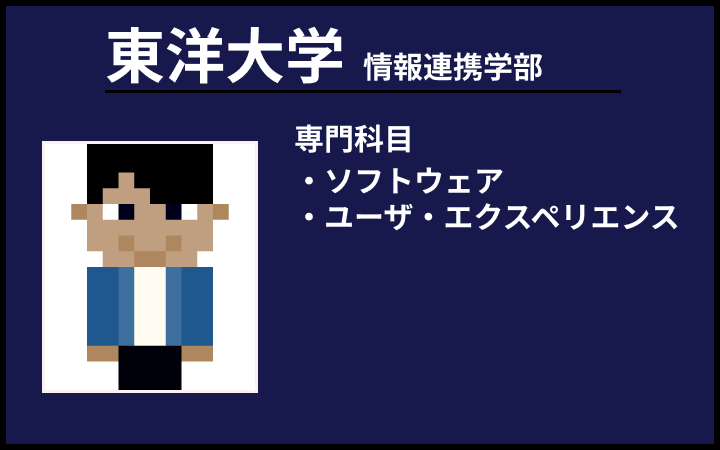
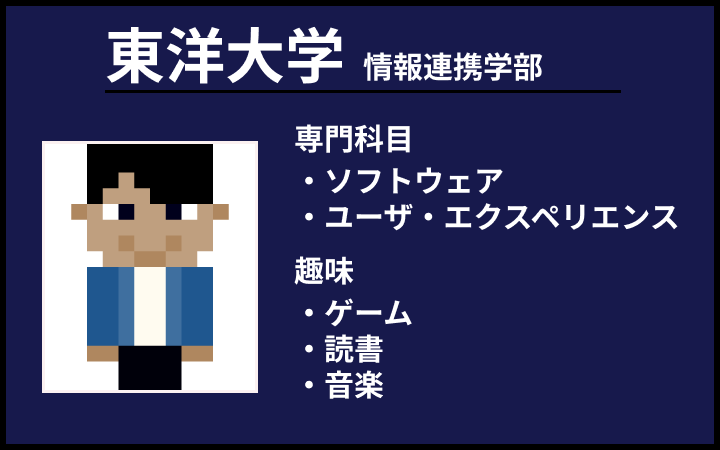
プロフィールの完成

Changed region(s): [[0.3972, 0.56, 0.5806, 0.9022]]

diff --git a/home/templates/Profile.html b/home/templates/Profile.html
@@ -1,0 +1,68 @@
+{% load static %}
+<!DOCTYPE html>
+<html>
+  <head>
+    <meta charset="UTF-8">
+    <meta name="viewport" content="width=device-width, initial-scale=1.0">
+    <link rel="stylesheet" href="{% static 'css/Profile.css' %}">
+    <script src="{% static 'js/Works.js' %}"></script>
+    <title>Timeline</title>
+  </head>
+
+  <body>
+    <a href="{% url 'home' %}"><img src="{% static 'img/Arrow.png' %}" class="back-btn"></a>
+    <h1 id="title">松原 有泰のプロフィール</h1>
+
+    <img id="Face_photo" src="{% static 'img/Face_photo.jpg' %}">
+
+    <div class="Achievements-container">
+        <div class="personal_info">
+            <p>email: y1u2t1a3---tky@ezweb.ne.jp</p>
+            <p>TEL: 080-6682-4426
+            <p>X: <a href="https://x.com/MY468_iniad7">@MY468_iniad7</p></a>
+            <p>GitHub: <a href="https://github.com/1F10230290">1F10230290</p></a>
+            <p>Unityroom: <a href="https://unityroom.com/users/tjw1hu5k80dyvecmnx2q">@tjw1hu5k80dyvecmnx2q</p></a>
+        </div>
+
+        <div class="above">
+        <div class="topic">
+            <h2>経歴</h2>
+            <p>2023年3月 横浜隼人高校を卒業</p>
+            <p>2023年4月 東洋大学情報連携学部に入学</p>
+            <p>2023年5月 ゲーム制作サークルIGC²に入会</p>
+            <p>2024年7月 IGC²の副サークル長に就く</p>
+        </div>
+
+        <div class="topic">
+            <h2>スキル</h2>
+            <h3>プログラミング言語</h3>
+            <p>Python, C#, C言語, JavaScript</p>
+            
+            <h3>開発環境</h3>
+            <p>Django, Unity</p>
+        </div>
+        <div class="topic">
+            <h2>パーソナリティ</h2>
+            <h3>専門科目</h3>
+            <p>コンピュータ・ソフトウェア</p>
+            <p>ユーザ・エクスペリエンス</p>
+
+            <h3>趣味</h3>
+            <p>ゲーム, 読書, 散歩, 音楽</p>
+        </div>
+
+        </div>
+
+        <div class="under">
+        <div class="topic">
+            <h2>興味のある分野</h2>
+            <p>ゲーム制作(開発、企画), システムインテグレータ, DX</p>
+        </div>
+        </div>
+
+        <div id="hidden">
+        <p>隠しコマンド:BAY</p>
+        </div>
+    </div>
+  </body>
+</html>

diff --git a/static/css/Profile.css b/static/css/Profile.css
@@ -1,0 +1,101 @@
+body {
+    display: flex;
+    justify-content: center;
+    align-items: center;
+    height: 100vh;
+    margin: 0;
+    position: relative;
+    background-color:#17194C;
+}
+
+#title {
+    color: white;
+    position: absolute;
+    top: -3%;
+    left: 50%;
+    transform: translateX(-50%);
+    font-size: 45px;
+}
+
+
+.back-btn {
+    height: 120px;
+    width: auto;
+    background-color: transparent;
+    position: absolute;
+    top: 2%;
+    left: 2%;
+}
+
+.Achievements-container{
+    color: white;
+}
+
+#hidden{
+    position: absolute;
+    bottom: 0px;
+    left: 27px;
+}
+
+.topic{
+    margin-left: 20px;
+}
+
+.topic h2{
+    font-size: 30px;
+    align-items: center;
+    position: relative;
+    top: 10px;
+    left: -50px;
+}
+
+.topic p{
+    font-size: 15px;
+    position: relative;
+    top: -10px;
+    left: -50px;
+}
+
+.topic h3{
+    font-size: 20px;
+    position: relative;
+    top: -10px;
+    left: -50px;
+}
+
+
+.name h3{
+    display: flex;
+    margin-left: 10px;
+}
+
+.personal_info{
+    position: absolute;
+    bottom: 10px;
+    right: 30px;
+    margin-bottom: 0px;
+    text-align: left;
+    margin: 5px 0;
+}
+
+.personal_info p {
+    margin: 5px 0;
+}
+
+.above{
+    display: flex;
+}
+
+.under{
+    display: flex;
+    position: relative;
+    bottom: 50px;
+}
+
+#Face_photo{
+    height: 350px;
+    width: auto;
+    position: relative;
+    left: -60px;
+    top: 40px;
+}

diff --git a/home/templates/home.html b/home/templates/home.html
@@ -10,7 +10,7 @@
   </head>
 
   <body>
-    <img id="content-image" src="{% static 'img/Achievements.png' %}" alt="Achievements" class="Achievements">
+    <a href="{% url 'Achievements' %}"><img id="content-image" src="{% static 'img/Achievements.png' %}" alt="Achievements" class="Achievements"></a>
 
     <div class="image-container">
       <img id="content-image" src="{% static 'img/Game_screen.png' %}" alt="Game_screen" class="Game_screen">
@@ -27,7 +27,7 @@
         </div>
     </div>
 
-    <img id="content-image" src="{% static 'img/Profile.png' %}" alt="Profile" class="Profile">
+    <a href="{% url 'Profile' %}"><img id="content-image" src="{% static 'img/Profile.png' %}" alt="Profile" class="Profile"></a>
 
   </body>
 </html>

diff --git a/home/templates/Achievements.html b/home/templates/Achievements.html
@@ -1,0 +1,22 @@
+{% load static %}
+<!DOCTYPE html>
+<html>
+  <head>
+    <meta charset="UTF-8">
+    <meta name="viewport" content="width=device-width, initial-scale=1.0">
+    <link rel="stylesheet" href="{% static 'css/Achievements.css' %}">
+    <script src="{% static 'js/Works.js' %}"></script>
+    <title>Timeline</title>
+  </head>
+
+  <body>
+    <a href="{% url 'home' %}"><img src="{% static 'img/Arrow.png' %}" class="back-btn"></a>
+    <h1 id="title">実績</h1>
+    <div class="Achievements-container">
+        <h2>情報連携学部学生表彰</h2>
+        <p>2024年6月|学業成績優秀者</p>
+        <h2>ITパスポート</h2>
+        <p>2024年11月|取得</p>
+    </div>
+  </body>
+</html>

diff --git a/static/css/Achievements.css b/static/css/Achievements.css
@@ -1,0 +1,28 @@
+body {
+    display: flex;
+    justify-content: center;
+    align-items: center;
+    height: 100vh;
+    margin: 0;
+    position: relative;
+    background-color:aliceblue;
+}
+
+#title {
+    color: black;
+    position: absolute;
+    top: 2%;
+    left: 50%;
+    transform: translateX(-50%);
+    font-size: 45px;
+}
+
+
+.back-btn {
+    height: 120px;
+    width: auto;
+    background-color: transparent;
+    position: absolute;
+    top: 2%;
+    left: 2%;
+}

diff --git a/home/urls.py b/home/urls.py
@@ -8,4 +8,6 @@ urlpatterns = [
     path('GBW', views.GBW, name='GBW'),
     path('Collider', views.Collider, name='Collider'),
     path('E_Racer', views.E_Racer, name='E_Racer'),
+    path('Achievements', views.Achievements, name='Achievements'),
+    path('Profile', views.Profile, name='Profile'),
 ]

diff --git a/home/views.py b/home/views.py
@@ -19,3 +19,9 @@ def Collider(request):
 
 def E_Racer(request):
     return render(request, 'E_Racer.html')
+
+def Achievements(request):
+    return render(request, 'Achievements.html')
+
+def Profile(request):
+    return render(request, 'Profile.html')
